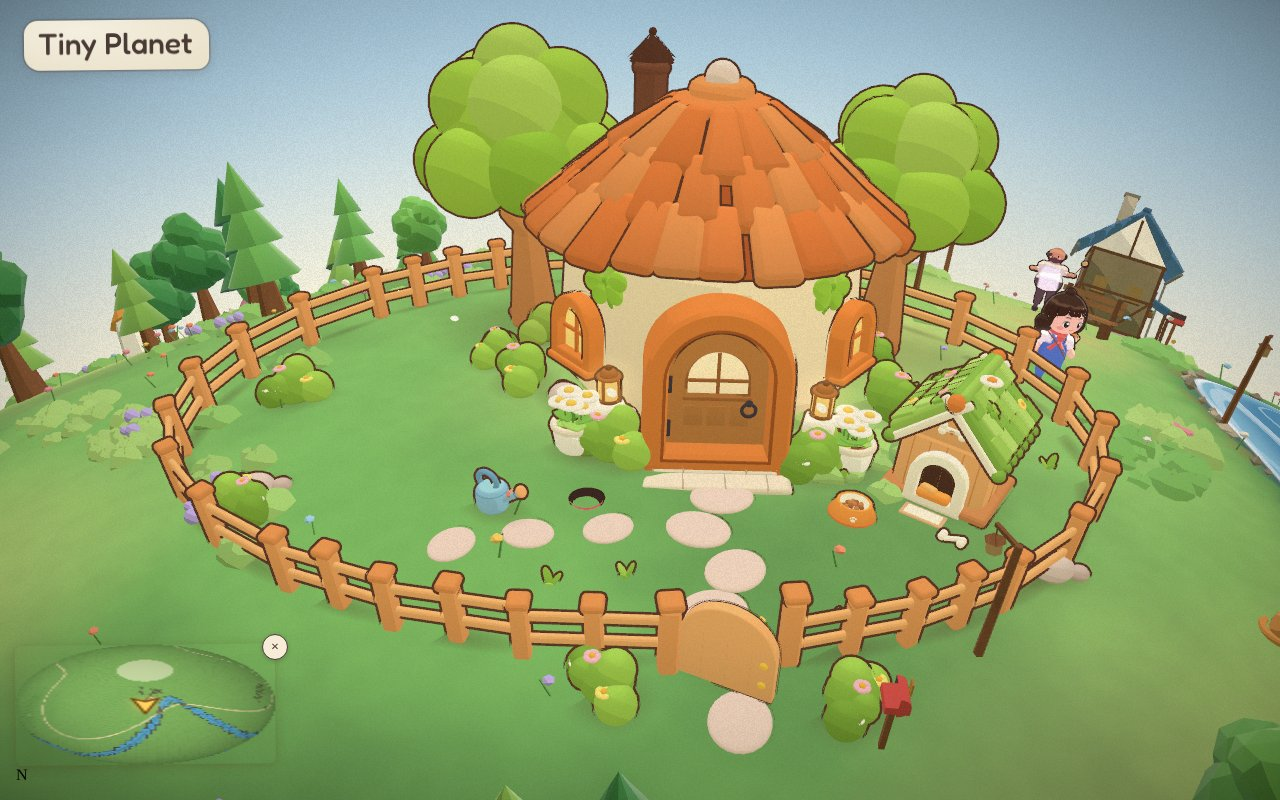
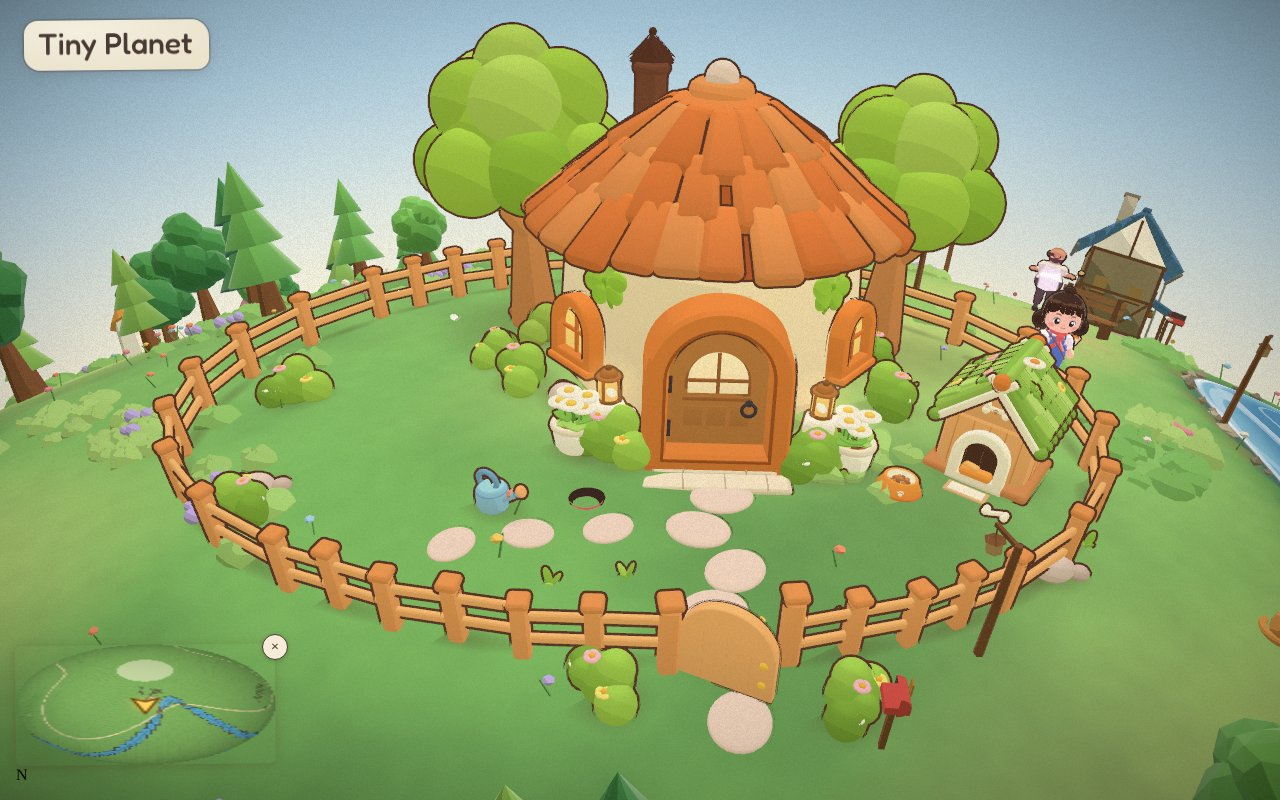
Home yard: dog house a little further back and away from the cottage
Claude-Session: https://claude.ai/code/session_01CNaBwK9YXZ5oYtTd2WVtoL

Changed region(s): [[0.625, 0.3125, 0.8438, 0.6875], [0.8438, 0.6562, 0.875, 0.6875]]

diff --git a/src/home/yard.js b/src/home/yard.js
@@ -15,9 +15,9 @@ export const YARD = {
   gardenStones: [[-0.42, 1.2, 0.6], [-0.72, 1.24, -0.3], [-1.0, 1.3, 1.1]],
   gardenCan: [-0.86, 1.08, -0.6], gardenBushes: [[-1.86, 0.1, 0.9], [-1.86, 1.02, 0.8], [-0.95, -0.1, 0.75]],
   // Pip's dog house: right of the cottage, set back from the fence, turned a little toward the house and the path
-  dogHouse: { x: 0.98, z: 0.72, yaw: -0.55 },
+  dogHouse: { x: 1.2, z: 0.52, yaw: -0.55 },
   rocks: [[1.32, 1.18, 0.4], [-0.62, 0.32, 2.1], [0.35, -0.75, 1], [-1.85, 0.9, 0.5]],
-  sprouts: [[0.52, 0.78], [-0.35, 1.45], [0.95, -0.05], [-1.0, -0.05], [0.4, 1.6], [1.5, 0.45], [-0.62, 1.5]],
+  sprouts: [[0.52, 0.78], [-0.35, 1.45], [0.95, -0.05], [-1.0, -0.05], [0.4, 1.6], [1.52, 0.98], [-0.62, 1.5]],
   // the yard fence: an oval round the house, trees, bench and crop beds, the gate in front on the stepping stones (x = 0)
   fence: { cx: -0.3, cz: 0.25, rx: 2.0, rz: 1.6, gateW: 0.42, seg: 0.45 },
 }
